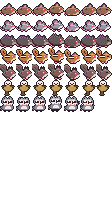
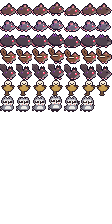
내 캐릭터가 무리 속에서 보이게(물든 적 색 + 발밑 빛 고리), 던전에서 떨어진 것이 문 칸으로 안 구르게, 모모 설정
- tools/art/critters.py: 물든 적 털색을 보라 쪽으로 28% + 밝기 82%, 외곽선을 차갑게(OUTLINE_TAINTED).
  들쥐가 Naïl과 같은 흙갈색이라 섞였다. 흑백으로 봐도 Naïl이 더 밝다
- render::draw_player_halo: Naïl 발밑에 따뜻한 빛 고리(바닥에, 천천히 숨 쉬듯)
- loot.rs bounds + World::push_loot/loot_bounds: 던전에서는 떨어진 방 안쪽에서만 구른다. 문 칸으로 굴러간 것을
  주우러 가다 옆 방으로 넘어가던 문제. 단위 테스트
- docs/decisions/0027: 오프닝의 "???" = 모모(히로인, 물들었다 돌아옴, 종 미정)

Claude-Session: https://claude.ai/code/session_01VNXEyeHwdhsn4oiHYXtNpM

diff --git a/src/loot.rs b/src/loot.rs
@@ -36,6 +36,8 @@ pub struct Loot {
     pub age: f32,
     /// 그리기 흔들림·깜빡임을 서로 다르게.
     pub phase: f32,
+    /// 굴러갈 수 있는 사각형(던전: 떨어진 방의 안쪽). 문 칸으로 굴러가 주우려다 옆 방으로 넘어가는 일을 막는다.
+    pub bounds: Option<Rect>,
 }
 
 impl Loot {
@@ -52,7 +54,33 @@ impl Loot {
             vz: rand::gen_range(t::LOOT_POP_UP * 0.7, t::LOOT_POP_UP),
             age: 0.0,
             phase: rand::gen_range(0.0, 1.0),
+            bounds: None,
         }
+    }
+
+    /// 이 사각형 밖으로는 굴러가지 않는다. 나온 자리가 밖이면 안으로 옮긴다.
+    pub fn within(mut self, bounds: Option<Rect>) -> Self {
+        self.bounds = bounds;
+        self.keep_inside();
+        self.prev_pos = self.pos;
+        self
+    }
+
+    fn keep_inside(&mut self) {
+        let Some(b) = self.bounds else {
+            return;
+        };
+        let p = vec2(
+            self.pos.x.clamp(b.x, b.right()),
+            self.pos.y.clamp(b.y, b.bottom()),
+        );
+        if p.x != self.pos.x {
+            self.vel.x = -self.vel.x * 0.4;
+        }
+        if p.y != self.pos.y {
+            self.vel.y = -self.vel.y * 0.4;
+        }
+        self.pos = p;
     }
 
     /// 튀지 않고 그 자리에 놓는다(개발 시나리오용).
@@ -100,6 +128,7 @@ impl Loot {
         if room.resolve_circle(&mut self.pos, 2.0) {
             self.vel *= 0.5;
         }
+        self.keep_inside();
         ready && can_take && (player - self.pos).length() <= t::LOOT_COLLECT_RADIUS
     }
 }
@@ -124,6 +153,20 @@ pub fn berry_chance(hp: i32, max_hp: i32, since_heal: u32, kind: Kind) -> f32 {
 #[cfg(test)]
 mod tests {
     use super::*;
+
+    /// 던전 방 안쪽에 묶인 것은 문 쪽으로 세게 튀어도 안쪽에 남는다.
+    #[test]
+    fn bounded_loot_stays_inside() {
+        let room = Room::new();
+        let b = Rect::new(40.0, 40.0, 100.0, 60.0);
+        let mut l = Loot::spawn(LootKind::Berry, vec2(10.0, 70.0)).within(Some(b));
+        assert!(b.contains(l.pos), "나온 자리가 밖이면 안으로");
+        l.vel = vec2(-500.0, 0.0);
+        for _ in 0..60 {
+            l.update(t::TICK_DT, vec2(300.0, 300.0), true, &room);
+            assert!(l.pos.x >= b.x && l.pos.x <= b.right());
+        }
+    }
 
     #[test]
     fn no_berry_at_full_hp_or_from_dummy() {

diff --git a/tools/art/critters.py b/tools/art/critters.py
@@ -23,6 +23,18 @@ from PIL import Image
 
 N = 16
 OUTLINE = (43, 29, 42)
+# 물든 적의 외곽선: Naïl(따뜻한 자두색)보다 어둡고 차갑게.
+OUTLINE_TAINTED = (26, 16, 38)
+
+# 값(밝기) 위계: 무리 속에서 Naïl이 먼저 읽히게, 물든 적은 털색을 보라 쪽으로 기울이고 조금 어둡게.
+# 들쥐가 Naïl과 같은 흙갈색이라 섞이면 안 보였다(사람 피드백 2026-10-25). 종 색은 남긴다(회색 생쥐, 주황 다람쥐).
+TAINT = (84, 58, 112)
+TAINT_MIX = 0.28
+TAINT_VALUE = 0.82
+
+
+def taint(rgb):
+    return tuple(int((c * (1 - TAINT_MIX) + t * TAINT_MIX) * TAINT_VALUE) for c, t in zip(rgb, TAINT))
 
 # 공통 색(종마다 털 색만 바꾼다)
 COMMON = {
@@ -335,9 +347,9 @@ def raccoon_frames():
     return [g, breathe(g), walk(g, 0), walk(g, 1), wave, happy]
 
 
-def paint(img, ox, oy, g, pal, silhouette=False):
-    d, b, h, l = pal
-    colors = dict(COMMON, d=d, b=b, h=h, l=l, o=OUTLINE)
+def paint(img, ox, oy, g, pal, silhouette=False, tainted=False):
+    d, b, h, l = (taint(c) for c in pal) if tainted else pal
+    colors = dict(COMMON, d=d, b=b, h=h, l=l, o=OUTLINE_TAINTED if tainted else OUTLINE)
     for y in range(N):
         for x in range(N):
             ch = g[y][x]
@@ -350,14 +362,14 @@ def paint(img, ox, oy, g, pal, silhouette=False):
 def sheet():
     rows = []
     for name, g in SPECIES:
-        rows.append((FUR[name], frames_of(g)))
-    rows.append((FUR['straw'], [DUMMY, DUMMY, DUMMY, DUMMY, DUMMY, lunge(DUMMY), shift(DUMMY, dx=-1)]))
-    rows.append((FUR['raccoon'], raccoon_frames()))
+        rows.append((FUR[name], frames_of(g), True))
+    rows.append((FUR['straw'], [DUMMY, DUMMY, DUMMY, DUMMY, DUMMY, lunge(DUMMY), shift(DUMMY, dx=-1)], False))
+    rows.append((FUR['raccoon'], raccoon_frames(), False))
     img = Image.new('RGBA', (N * 7, N * len(rows) * 2), (0, 0, 0, 0))
-    for ry, (pal, frames) in enumerate(rows):
+    for ry, (pal, frames, tainted) in enumerate(rows):
         for rx, g in enumerate(frames):
             g = outline(g)
-            paint(img, rx * N, ry * N, g, pal)
+            paint(img, rx * N, ry * N, g, pal, tainted=tainted)
             paint(img, rx * N, (ry + len(rows)) * N, g, pal, silhouette=True)
     return img
 

diff --git a/src/adventure.rs b/src/adventure.rs
@@ -264,6 +264,7 @@ impl World {
             room.visited = true;
             if room.kind == RoomKind::Rest {
                 let c = room.rect().center();
+                // 방 가운데에 놓는다(굴러가지 않으니 묶을 필요 없음).
                 for k in 0..3 {
                     self.loot.push(Loot::place(
                         LootKind::Berry,
@@ -318,14 +319,14 @@ impl World {
             self.room.open_chest(i);
             let at = self.room.props[i].rect.center();
             for _ in 0..rand::gen_range(t::CHEST_SEEDS.0, t::CHEST_SEEDS.1 + 1) {
-                self.loot.push(Loot::spawn(LootKind::Seed, at));
+                self.push_loot(Loot::spawn(LootKind::Seed, at));
             }
             let missing: Vec<usize> = (0..crate::equipment::CHARMS.len())
                 .filter(|c| !self.charms_found.contains(c))
                 .collect();
             if missing.is_empty() {
                 for _ in 0..12 {
-                    self.loot.push(Loot::spawn(
+                    self.push_loot(Loot::spawn(
                         LootKind::Glowbug,
                         self.room.props[i].rect.center(),
                     ));
@@ -337,6 +338,22 @@ impl World {
             }
             sfx.play(sfx::Id::Emerge);
         }
+    }
+
+    /// 떨어진 것이 굴러갈 수 있는 곳: 던전이면 지금 방의 안쪽(벽 칸과 문 칸을 뺀 곳), 그 밖은 제한 없음.
+    pub fn loot_bounds(&self) -> Option<Rect> {
+        match self.adv.place {
+            Place::Dungeon => {
+                let r = dungeon::room_rect(self.adv.current_room);
+                Some(Rect::new(r.x + 22.0, r.y + 38.0, r.w - 44.0, r.h - 60.0))
+            }
+            _ => None,
+        }
+    }
+
+    pub fn push_loot(&mut self, l: Loot) {
+        let b = self.loot_bounds();
+        self.loot.push(l.within(b));
     }
 
     /// 카메라가 머무는 사각형.

diff --git a/src/render.rs b/src/render.rs
@@ -1115,6 +1115,7 @@ fn draw_sorted(art: &Art, w: &World, alpha: f32) {
         player::State::Burrow { .. } | player::State::Dead
     ) {
         draw_ellipse(pp.x, pp.y + 6.0, 6.0, 2.0, 0.0, SHADOW_SOFT);
+        draw_player_halo(pp, w.time);
     }
     list.sort_by(|a, b| a.0.total_cmp(&b.0));
     for (_, d) in list {
@@ -1569,6 +1570,30 @@ fn draw_critter_at(tex: &Texture2D, row: u32, pos: Vec2, face_left: bool, moving
             flip_x: face_left,
             ..Default::default()
         },
+    );
+}
+
+/// 내 캐릭터 표시: 발밑의 따뜻한 빛 고리(색이 아니라 모양으로도 구별되게). 바닥에 그려 다른 그림을 가리지 않는다.
+/// 적이 많을 때 Naïl을 놓치지 않게(사람 피드백 2026-10-25). 아주 천천히 숨 쉬듯 밝아졌다 어두워진다.
+fn draw_player_halo(p: Vec2, time: f32) {
+    let pulse = 0.5 + 0.5 * (time * 2.2).sin();
+    let a = 0.45 + 0.2 * pulse;
+    draw_ellipse(
+        p.x,
+        p.y + 6.0,
+        9.0,
+        3.5,
+        0.0,
+        Color::new(1.0, 0.92, 0.65, 0.10 + 0.05 * pulse),
+    );
+    draw_ellipse_lines(
+        p.x,
+        p.y + 6.0,
+        9.0,
+        3.5,
+        0.0,
+        1.0,
+        Color::new(1.0, 0.9, 0.6, a),
     );
 }
 

diff --git a/src/world.rs b/src/world.rs
@@ -740,20 +740,20 @@ impl World {
         let (lo, hi) = loot::glowbugs_for(kind);
         if hi > 0 {
             for _ in 0..rand::gen_range(lo, hi + 1) {
-                self.loot.push(Loot::spawn(LootKind::Glowbug, pos));
+                self.push_loot(Loot::spawn(LootKind::Glowbug, pos));
             }
         }
         if rand::gen_range(0.0, 1.0) < kind.species().seed_chance {
-            self.loot.push(Loot::spawn(LootKind::Seed, pos));
+            self.push_loot(Loot::spawn(LootKind::Seed, pos));
         }
         if kind != Kind::Dummy && rand::gen_range(0.0, 1.0) < t::WORM_CHANCE {
-            self.loot.push(Loot::spawn(LootKind::Worm, pos));
+            self.push_loot(Loot::spawn(LootKind::Worm, pos));
         }
         let max = self.player.stats.max_hp;
         let missing = self.player.hp < max;
         let p = loot::berry_chance(self.player.hp, max, self.kills_since_berry, kind);
         if p > 0.0 && rand::gen_range(0.0, 1.0) < p {
-            self.loot.push(Loot::spawn(LootKind::Berry, pos));
+            self.push_loot(Loot::spawn(LootKind::Berry, pos));
             self.kills_since_berry = 0;
         } else if missing && kind != Kind::Dummy {
             self.kills_since_berry += 1;

diff --git a/src/cutscene.rs b/src/cutscene.rs
@@ -34,7 +34,7 @@ pub struct Portrait {
 impl Portrait {
     /// Naïl: 칸 0~3(보통·기쁨·걱정·결의).
     pub const NAIL: Portrait = Portrait { first: 0, faces: 4 };
-    /// 변해 버린 이웃: 칸 4(정체를 모름: 그림자 + 빛나는 눈).
+    /// 변해 버린 이웃: 칸 4(정체를 모름: 그림자 + 빛나는 눈). 정체는 모모(히로인, 나중에 밝혀짐, docs/decisions/0027).
     pub const NEIGHBOR_UNKNOWN: Portrait = Portrait { first: 4, faces: 1 };
     /// 라쿤 포포: 칸 5~6(보통·기쁨).
     pub const POPO: Portrait = Portrait { first: 5, faces: 2 };

diff --git a/docs/phase-1-combat-prototype.md b/docs/phase-1-combat-prototype.md
@@ -53,6 +53,8 @@
 | 발톱 3연타 | `player.rs` | 활성 구간이 끝나면 버퍼된 입력으로 다음 타가 바로 이어짐. 3타 뒤 추가 경직 0.14초. 스윙 시작 시 전방 전진(lunge) |
 | 굴파기 | `player.rs` | 명세대로. 솟구침은 투사체도 지운다(추가). 쿨다운 바를 HUD 오른쪽 위에 표시 |
 | 적(물든 이웃) | `enemy.rs`, `species.rs`, `tools/art/critters.py` | 그림 v2: 종마다 기본 자세를 손으로 찍고 동작은 옮기기·몇 점 바꾸기(v1 타원 쌓기는 얼룩져 안 읽혔다). 다섯 종: 들쥐·생쥐 떼·시궁쥐(돌격 셋), 다람쥐(도토리), 청설모(웅크렸다 뛰기, 착지 고리). 종류 표 = 수치·도감 글. 쥐가 절반 넘게 뽑힘. 개발 시나리오 "적 다섯 종"(docs/decisions/0021) |
+| 내 캐릭터 구별 | `tools/art/critters.py`(taint), `render.rs`(draw_player_halo) | 물든 적은 털색을 보라 쪽 + 어둡게, 외곽선 차갑게. Naïl은 따뜻한 색 그대로 + 발밑 빛 고리(천천히 숨 쉼). 흑백으로 봐도 Naïl이 더 밝다 |
+| 떨어진 것 | `loot.rs`(bounds), `adventure.rs`(loot_bounds, push_loot) | 던전에서는 떨어진 방 안쪽에서만 구른다(문 칸으로 굴러가 주우려다 옆 방으로 넘어가던 문제) |
 | 공격 예고 | `render.rs`(draw_telegraphs), `room.rs`(ray_len) | 돌진 길 띠·조준 점선·착지 고리를 바닥에 반투명 붉게(채움 3→16%, 테두리 15→50%), 예고가 끝날수록 진하게 + 마지막 15% 깜빡임(docs/decisions/0025, 0026) |
 | 웹 GL 컨텍스트 | `web/index.html` | 안티에일리어싱·투명 배경 끔, 고성능 GPU 요청. 아이폰급(dpr 3) 캔버스 2532×1170에서 매 프레임 4배 샘플을 없앰. 헤드리스 같은 3초 동안 그린 프레임 62 → 144(docs/decisions/0026) |
 | 도감·상태 | `app.rs`(draw_bestiary, draw_status) | 도감: 만난 이웃, 능력은 말로. 상태: 플레이어 능력치 숫자(체력·공격력·공속·굴파기 대기·분노 충전·무기·장신구·반딧불·씨앗) |
@@ -90,7 +92,8 @@
 - [x] Sunnyside World 라이선스 원문 확인·기록(V1, 상업 사용 가능, 2026-10-25)
 - [ ] Sunnyside World 내려받기(Name your own price)
 - [ ] 비공개 에셋 레포 만들기(예: `nail-assets`)에 팩을 넣고, 게임 레포 Secrets에 `ASSETS_REPO`(owner/name)·`ASSETS_TOKEN`(그 레포 읽기 권한 fine-grained 토큰) 등록. 그 뒤 세션에 그 레포를 붙여 주면 칸 매핑을 한다
-- [ ] 초상화 피드백(Naïl 표정 4개, 이웃 그림자, 라쿤 포포 2개). 오프닝의 그림자 이웃 정체(종) 정하기
+- [ ] 초상화 피드백(Naïl 표정 4개, 이웃 그림자, 라쿤 포포 2개)
+- [ ] 모모(오프닝의 "???", 히로인, 0027)의 종 정하기 → 물든·돌아온 초상화, 보스 패턴 초안
 - [ ] 장신구·퀵 아이템·드릴 손맛("장신구·필살기 확인"): 개정한 드릴(0024)의 시동 길이·거리·끌고 가기·벽 쿵, 분노 차는 속도, 지렁이 확률
 - [ ] 적 다섯 종 그림·행동 피드백("적 다섯 종"): 쥐 셋이 구별되는지, 청설모 뛰기가 공정한지, 도감 말이 맞는지
 - [ ] 튜토리얼 9단계 길이·포포 말투(이름 "포포" 괜찮은지). 길면 패링·필살기·아이템을 첫 던전으로 옮긴다(0023)

diff --git a/docs/concept.md b/docs/concept.md
@@ -11,7 +11,7 @@
 - 이름 Naïl은 아들 이름. nail = 발톱. 발톱으로 싸우고 발톱으로 판다.
 
 ## 세계관
-큰 나무가 시들어 가고, 그 뿌리가 땅속 이웃들을 이상하게 바꿔 놓았다. 이웃은 실제 동물들이고(라쿤·쥐·다람쥐·청설모 …), 적은 그 이웃이 뿌리 독에 물든 모습이다(붉은 눈 + 보라 뿌리, docs/decisions/0021). 잡몹은 쥐가 주로 나온다. 처음 Naïl을 돕는 이는 물들지 않은 라쿤 포포(튜토리얼 안내, 0023). 화폐는 둘: 반딧불(기술을 깨움) · 씨앗(상점). Naïl은 원인을 찾아 뿌리를 따라 내려간다. 층마다 변해 버린 이웃이 보스로 막아선다. 이기면 제정신으로 돌아와 **나무 아래 마을(허브)로 올라오고**, 대화·가게·해금을 맡고, **플레이어블 캐릭터가 된다.** 가장 깊은 곳에 사라진 씨앗(또는 병의 원인)이 있다.
+큰 나무가 시들어 가고, 그 뿌리가 땅속 이웃들을 이상하게 바꿔 놓았다. 이웃은 실제 동물들이고(라쿤·쥐·다람쥐·청설모 …), 적은 그 이웃이 뿌리 독에 물든 모습이다(붉은 눈 + 보라 뿌리, docs/decisions/0021). 잡몹은 쥐가 주로 나온다. 처음 Naïl을 돕는 이는 물들지 않은 라쿤 포포(튜토리얼 안내, 0023). 오프닝에서 길을 막는 그림자 이웃("???")은 **모모** — 물든 채 처음 만나고 나중에 돌아오는 히로인(귀여운 여자 캐릭터, 종 미정, 0027). 화폐는 둘: 반딧불(기술을 깨움) · 씨앗(상점). Naïl은 원인을 찾아 뿌리를 따라 내려간다. 층마다 변해 버린 이웃이 보스로 막아선다. 이기면 제정신으로 돌아와 **나무 아래 마을(허브)로 올라오고**, 대화·가게·해금을 맡고, **플레이어블 캐릭터가 된다.** 가장 깊은 곳에 사라진 씨앗(또는 병의 원인)이 있다.
 
 메타 진행은 두 가지로 눈에 보인다: 마을에 이웃이 늘어나는 것, 나무가 조금씩 살아나는 것.
 

diff --git a/docs/decisions/0027-momo-heroine.md b/docs/decisions/0027-momo-heroine.md
@@ -1,0 +1,16 @@
+# 0027: 오프닝의 "???" = 모모(히로인). 물들었다가 나중에 돌아온다. 종은 미정
+
+- 상태: 채택 (2026-10-25, 사장 설정). 종(어떤 동물인지)은 정하지 않았다.
+
+## 결정
+1. 오프닝에서 Naïl에게 "돌아가"라고 하고 사라지는 그림자 이웃(지금 이름표 "???")은 **모모**다. 이름은 나중에 밝혀진다(그때까지 이름표는 "???").
+2. 모모는 **귀여운 여자 캐릭터, 히로인**. 뿌리에 물든 상태로 처음 나오고, 이야기 뒤에서 **제정신으로 돌아온다**(컨셉의 "보스 → 동료 → 플레이어블" 흐름과 맞을지는 종과 함께 정한다).
+3. 지금 그림(초상화 칸 4: 그림자 + 빛나는 초록 눈 + 몸을 감은 뿌리)은 정체를 숨긴 모습으로 유지한다. 종이 정해지면 물든 모습·돌아온 모습 초상화를 따로 그린다(`tools/art/portraits.py`).
+
+## 종을 고를 때 볼 것(제안, 결정 아님)
+- 땅속 세계에 사는 진짜 동물, 이미 쓴 종(두더지·쥐·다람쥐·청설모·라쿤)과 실루엣이 겹치지 않을 것.
+- 물든 모습과 돌아온 모습의 차이가 그림으로 크게 보일 것.
+- 보스 패턴이 곧 나중 기술 세트가 된다(docs/decisions/0003) → 종의 몸짓이 전투 동작이 될 것.
+
+## 남은 일
+- 종 정하기 → 물든/돌아온 초상화, 스프라이트, 보스 패턴 초안, 오프닝 대사(지금 op_2·op_3) 다듬기.
